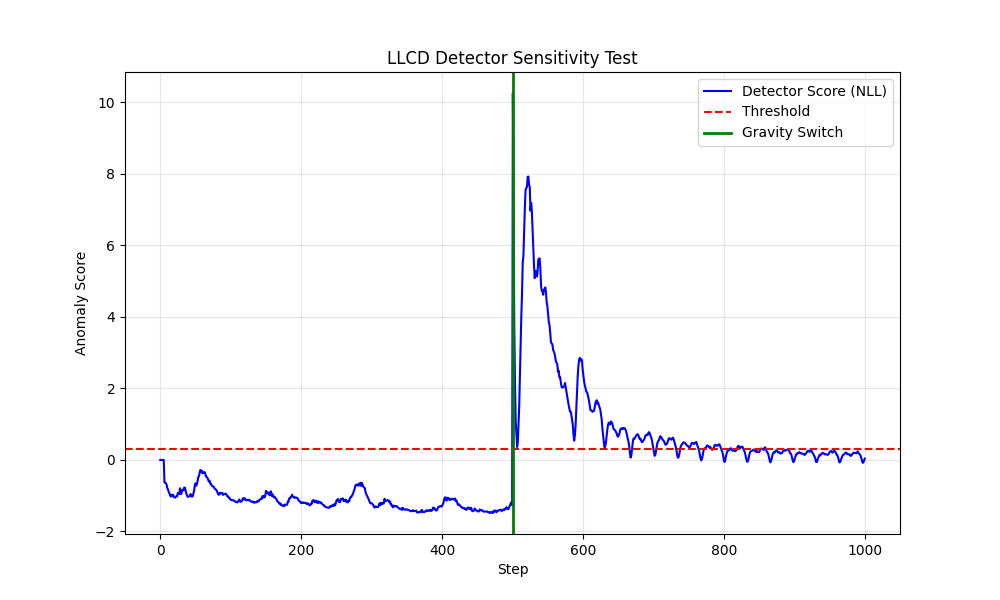
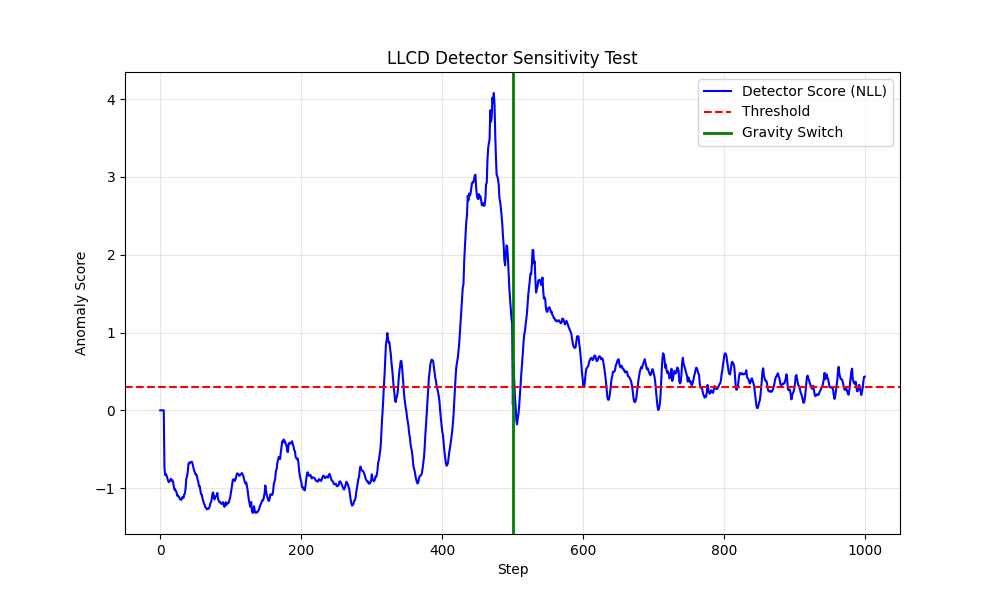
llcd v0.8, detection on live data instead of buffer sampling

diff --git a/models.py b/models.py
@@ -42,9 +42,9 @@ class WorldModel(nn.Module):
         print(f"-----------------------------------------")
         # config.dyn_deter is the size of the GRU memory (usually 512)
         self.change_detector = ChangeDetector(input_dim=config.dyn_deter)
-        self.adapting = False       # <--- ADD THIS LINE
-        self.adaptation_timer = 0   # <--- Keep this if using the timer logic
-        self.current_adaptation_score = 1.0 # <--- ADD THIS (Default weight = 1.0)
+        self.adaptation_timer = 0
+        self.current_adaptation_score = 0.0 # For weighting
+        self.llcd_score_log = 0.0           # For tensorboard
         shapes = {k: tuple(v.shape) for k, v in obs_space.spaces.items()}
         self.encoder = networks.MultiEncoder(shapes, **config.encoder)
         self.embed_size = self.encoder.outdim
@@ -128,27 +128,10 @@ class WorldModel(nn.Module):
                     embed, data["action"], data["is_first"]
                 )
 
-                # --- [LLCD] DETECT CHANGE ---
-                llcd_score = 0.0 # Default for logging
-                llcd_triggered = 0.0 # Default for logging
-                
-                if getattr(self._config, "llcd", False):
-                    # Take mean of deterministic state
-                    current_deter = post["deter"][:, -1, :].mean(dim=0)
-                    
-                    has_changed, score = self.change_detector.update(current_deter)
-                    
-                    # --- FIX: Capture score for Logging AND Logic ---
-                    llcd_score = score 
-                    self.current_adaptation_score = max(1.0, score) 
-                    # -----------------------------------------------
-                    
-                    if has_changed:
-                        print(f"[LLCD] 🚨 CHANGE DETECTED! Score: {score:.2f}")
-                        # print(f"[LLCD] ⚡ Triggering 50-step Adaptation", flush=True)
-                        
-                        self.adaptation_timer = 50 
-                        self.change_detector.reset()
+                # --- [LLCD] NO DETECTION HERE ---
+                # We only READ the state set by dreamer.py
+                llcd_triggered = 0.0
+                # --------------------------------
 
                 kl_free = self._config.kl_free
                 dyn_scale = self._config.dyn_scale
@@ -158,7 +141,7 @@ class WorldModel(nn.Module):
                     post, prior, kl_free, dyn_scale, rep_scale
                 )
                 
-                # ... (Predictions and Base Losses) ...
+                # ... (Predictions logic remains same) ...
                 preds = {}
                 for name, head in self.heads.items():
                     grad_head = name in self._config.grad_heads
@@ -179,23 +162,29 @@ class WorldModel(nn.Module):
                     for key, value in losses.items()
                 }
                 
-                # --- [LLCD] APPLY ADAPTATION ---
+                # --- [LLCD] APPLY ADAPTATION (Loss Only) ---
                 total_loss = sum(scaled.values()) + kl_loss
                 
                 if getattr(self._config, "llcd", False) and self.adaptation_timer > 0:
-                    # Use the dynamic score we captured earlier
-                    adapt_weight = self.current_adaptation_score
+                    # Use the score captured by _policy
+                    # Technique 2: Z-Score Scaling (or simple linear scaling)
+                    # We use the stored score to determine urgency
+                    score = getattr(self, "current_adaptation_score", 1.0)
+                    
+                    # Weight Logic: 1.0 + Score (clamped at 20)
+                    raw_weight = 1.0 + max(0.0, score)
+                    adapt_weight = min(raw_weight, 20.0)
                     
                     total_loss += adapt_weight * dyn_loss
                     self.adaptation_timer -= 1
                     llcd_triggered = 1.0
                     
                     if self.adaptation_timer == 0:
-                         print(f"\n[LLCD] ✅ Adaptation Complete.\n")
-
-                model_loss = total_loss
-                # -------------------------------
+                         print(f"[LLCD] ✅ Adaptation Complete.", flush=True)
                 
+                model_loss = total_loss
+                # -------------------------------------------
+
             metrics = self._model_opt(torch.mean(model_loss), self.parameters())
 
         # ... (Standard Metrics) ...
@@ -208,9 +197,13 @@ class WorldModel(nn.Module):
         metrics["kl"] = to_np(torch.mean(kl_value))
         
         # --- [LLCD] LOGGING ---
-        # Now this will actually show the detector score in TensorBoard
-        metrics["llcd_score"] = float(llcd_score)
+        # Log the score that triggered the current state
+        metrics["llcd_score"] = float(getattr(self, "llcd_score_log", 0.0))
         metrics["llcd_active"] = float(llcd_triggered)
+        
+        # Optional: Log Run Length if using that detector version
+        if hasattr(self.change_detector, 'n'):
+             metrics["llcd_run_length"] = float(self.change_detector.n)
         # ----------------------
         
         with torch.cuda.amp.autocast(self._use_amp):
@@ -223,8 +216,7 @@ class WorldModel(nn.Module):
                 postent=self.dynamics.get_dist(post).entropy(),
             )
         post = {k: v.detach() for k, v in post.items()}
-        return post, context, metrics
-    # this function is called during both rollout and training
+        return post, context, metrics# this function is called during both rollout and training
     def preprocess(self, obs):
         # --- FIX: Only call .copy() on numpy arrays (like images) ---
         # Python bools (is_first, is_terminal) don't have .copy()

diff --git a/detector.py b/detector.py
@@ -3,44 +3,53 @@ from scipy.stats import t
 
 class ChangeDetector:
     """
-    Adaptive BOCPD with 3-Sigma Thresholding.
-    Faithful implementation of statistical outlier detection.
+    Option A: Adaptive 3-Sigma Anomaly Detector.
+    Calculates the Negative Log Likelihood (Score) of the current state
+    against the history of the current task.
     """
-    def __init__(self, input_dim):
+    def __init__(self, input_dim, history_window=500):
         self.input_dim = input_dim
         
-        # 1. Detection Statistics (Student-T Logic)
+        # 1. Distribution Stats (The "Normal" Baseline)
         self.n = 0
         self.mean = np.zeros(input_dim)
         self.sum_sq = np.zeros(input_dim)
         
-        # 2. Adaptive Threshold Statistics (3-Sigma Logic)
+        # 2. Threshold Stats (The Noise Floor)
+        self.history_window = history_window
         self.score_history = [] 
         self.score_mean = 0.0
         self.score_std = 1.0 
-        
-        # --- THIS IS THE VARIABLE YOU WERE MISSING ---
-        self.history_window = 500  # Track last 500 scores for robust baseline
-        # ---------------------------------------------
 
     def update(self, deter_state):
-        # 1. Convert to Numpy
+        # Convert Input
         if hasattr(deter_state, 'detach'):
             x = deter_state.detach().cpu().numpy()
         else:
             x = deter_state
         if x.ndim > 1:
-            x = x.mean(axis=0)
+            x = x.mean(axis=0) # Average batch
             
         score = 0.0
+        
+        # Calculate Anomaly Score (Student-T NLL)
         if self.n > 5:
-            # Student-T NLL Calculation
             df = self.n - 1
+            # Variance = E[x^2] - (E[x])^2
+            # Clamped to avoid division by zero
             var = (self.sum_sq - self.n * (self.mean**2)) / (self.n - 1)
-            var = np.maximum(var, 1e-6)
+            var = np.maximum(var, 1e-6) 
+            
             scale = np.sqrt(var * (1 + 1/self.n))
+            
+            # Standardize x (Z-score relative to distribution)
             t_score = (x - self.mean) / scale
+            
+            # Log Probability
             log_pdf = t.logpdf(t_score, df) - np.log(scale)
+            
+            # Score = Negative Mean Log Likelihood
+            # High Score = High Surprise = Anomaly
             score = -np.mean(log_pdf)
 
         # Update Distribution Stats
@@ -49,26 +58,27 @@ class ChangeDetector:
         self.mean += delta / self.n
         self.sum_sq += x**2
         
-        # 2. Adaptive Decision (3-Sigma)
+        # Check for Change (3-Sigma Rule)
         is_change = False
         
-        # Burn-in: Wait 500 steps to establish a baseline
+        # Burn-in: Wait 500 steps before triggering
         if self.n > 500:
-            # Enforce minimum noise floor to prevent infinite sensitivity
+            # Minimum noise floor (prevent infinite sensitivity)
             min_std = 0.1
             effective_std = max(self.score_std, min_std)
             
+            # Calculate Z-Score of the Anomaly Score itself
             z_score = (score - self.score_mean) / effective_std
             
-            # 3-Sigma Rule
-            if z_score > 5.0: 
+            # Trigger if > 3 Standard Deviations
+            if z_score > 3.0: 
                 is_change = True
         
-        # Update Score History (Rolling Window)
+        # Update History (Only if no change, to keep baseline clean)
         if not is_change:
             self.score_history.append(score)
             if len(self.score_history) > self.history_window:
-                self.score_history.pop(0) # Remove oldest
+                self.score_history.pop(0)
             
             if len(self.score_history) > 2:
                 self.score_mean = np.mean(self.score_history)
@@ -77,8 +87,10 @@ class ChangeDetector:
         return is_change, score
 
     def reset(self):
-        # LLCD Strategy: Reset distribution belief, but KEEP score history
-        # This ensures the threshold remains stable across tasks
+        # Reset Distribution Stats (New Task = New Mean/Var)
         self.n = 0
         self.mean = np.zeros(self.input_dim)
         self.sum_sq = np.zeros(self.input_dim)
+        
+        # Note: We KEEP score_history to maintain a stable noise threshold
+        # across tasks, assuming the agent's internal noise level is constant.

diff --git a/dreamer.py b/dreamer.py
@@ -120,7 +120,30 @@ class Dreamer(nn.Module):
             latent, action = state
         obs = self._wm.preprocess(obs)
         embed = self._wm.encoder(obs)
+        
+        # 1. Forward the dynamics
         latent, _ = self._wm.dynamics.obs_step(latent, action, embed, obs["is_first"])
+        
+        # --- [LLCD] DETECT ON LIVE DATA (Correct Place) ---
+        # We detect here because 'latent' is the sequence of what is happening NOW.
+        if getattr(self._config, "llcd", False) and training:
+            # Extract deterministic state [Batch, Dim]
+            deter = latent["deter"]
+            
+            # Update detector
+            has_changed, score = self._wm.change_detector.update(deter)
+            
+            # Save score for logging/weighting in _train
+            self._wm.current_adaptation_score = score 
+            self._wm.llcd_score_log = score # Helper for logging
+            
+            if has_changed:
+                print(f"[LLCD] 🚨 LIVE DETECT! Score: {score:.2f} | Adapting...", flush=True)
+                # Trigger the adaptation window
+                self._wm.adaptation_timer = 50 
+                self._wm.change_detector.reset()
+        # --------------------------------------------------
+
         if self._config.eval_state_mean:
             latent["stoch"] = latent["mean"]
         feat = self._wm.dynamics.get_feat(latent)
@@ -392,21 +415,17 @@ def main(config):
     while agent._step < config.steps + config.eval_every:
         logger.write()
         
-    # --- DYNAMIC TASK SWITCHING ---
+        # --- DYNAMIC TASK SWITCHING ---
         if crl_active:
-            # 1. Define an offset to "Zero" the clock at the restart point
-            # Change this number to whatever step to start a NEW run from (e.g. 14000)
-            manual_offset = 0 
             
-            # 2. Subtract prefill AND the manual offset
             prefill_steps = getattr(config, "prefill", 0)
-            effective_step = max(0, agent._step - prefill_steps - manual_offset)
-            
-            expected_idx = int(effective_step // steps_per_task)
+            effective_step = max(0, agent._step - prefill_steps)
+            cycle_length = steps_per_task * len(crl_tasks)
+            cycle_step = effective_step % cycle_length
+            expected_idx = cycle_step // steps_per_task
 
-            if expected_idx >= len(crl_tasks):
-                expected_idx = len(crl_tasks) - 1
-            
+            print(f"[CRL] Step {agent._step} | Effective Task: {expected_idx}", flush=True)
+
             desired_task_id = crl_tasks[expected_idx]
             
             # Only update if the task has CHANGED
